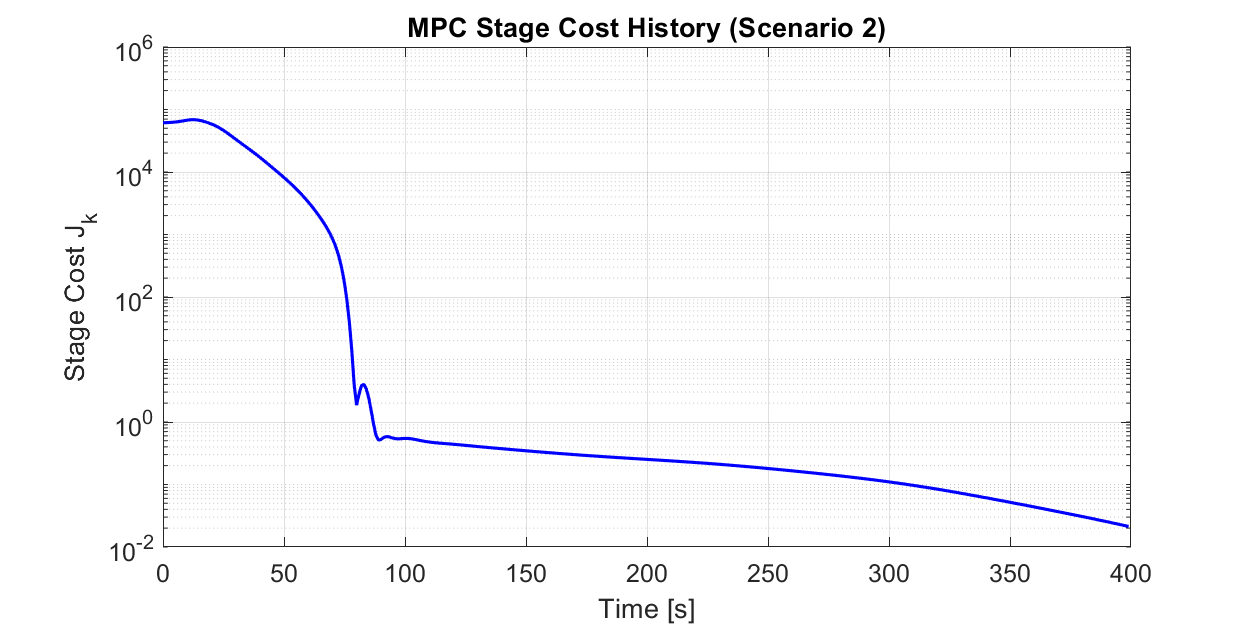
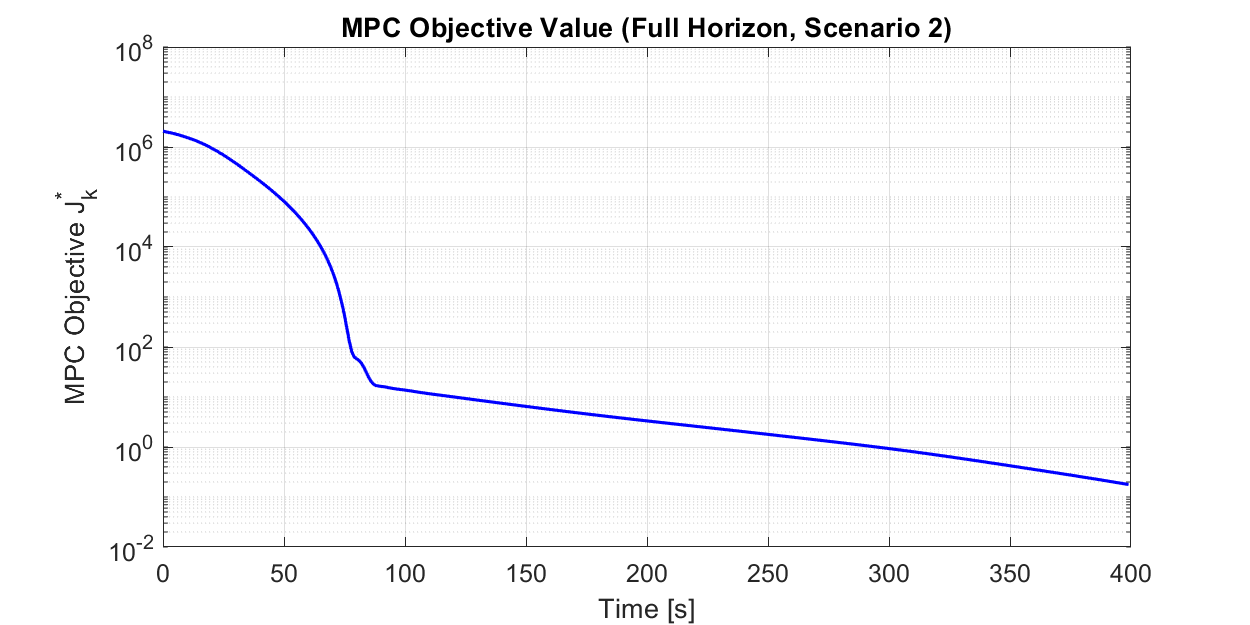
Replace omega plot with true MPC cost history; enforce figure-to-prose coverage
- Cost figure now plots the true QP objective value (full-horizon sum of
  state tracking Q, terminal QN, input Ru, and input-rate Rdu terms)
  computed from the optimal decision vector z*, not the single-step
  stage cost approximation used previously.
- Updated paper text and caption to describe the full-horizon objective.
- Fixed duplicate \label{eq:quat_prop} (Section 3 vs Section 10.8):
  replaced the second instance with a cross-reference to the original.
- Added prose references for 4 unreferenced figures:
  fig:nominal_grid, fig:comparison, fig:faraci_maps, fig:faraci_scaling.
- All 15 figures now have explicit \ref{} calls with explanatory prose.
- Paper compiles cleanly: 31 pages, 0 errors, 0 undefined references.

diff --git a/paper_acta/acta_astronautica.tex b/paper_acta/acta_astronautica.tex
@@ -467,7 +467,7 @@ $\omega_t$ (deg/s) & $a_{\max}\!=\!0.20$ & $0.10$ & $0.05$ & $0.02$ \\
 \end{tabular}
 \end{table}
 
-The safe fraction decreases rapidly with tumble rate due to the $\omega_t^{-2}$ dependence of $r_{\mathrm{sync}}$ and the quadratic growth of the erosion term.  At $\omega_t = 1$~deg/s with $a_{\max} = 0.20$~m/s$^2$, 80.1\% of the cone is certified safe; at $\omega_t = 5$~deg/s with $a_{\max} = 0.02$~m/s$^2$, the safe region shrinks to near zero.
+The safe fraction decreases rapidly with tumble rate due to the $\omega_t^{-2}$ dependence of $r_{\mathrm{sync}}$ and the quadratic growth of the erosion term.  At $\omega_t = 1$~deg/s with $a_{\max} = 0.20$~m/s$^2$, 80.1\% of the cone is certified safe; at $\omega_t = 5$~deg/s with $a_{\max} = 0.02$~m/s$^2$, the safe region shrinks to near zero.  Figure~\ref{fig:nominal_grid} visualises this trend: the green safe region contracts from nearly the full cone (top-left) to a narrow strip near the docking axis (bottom-right) as the governing ratio $a_{\max}/\omega_t^2$ decreases.
 
 \begin{figure}[H]
 \centering
@@ -516,6 +516,8 @@ $\omega_t$ & $a_{\max}$ & Nom & Stoch & Rob & MC \\
 \bottomrule
 \end{tabular}
 \end{table}
+
+Figure~\ref{fig:comparison} shows the spatial distribution of the three nested sets for all 20 parameter combinations.  The progressive constraint tightening from nominal to robust is visible as concentric contraction of the safe region, with the gap between sets widening at higher tumble rates where disturbance-induced erosion is most severe.
 
 \begin{figure}[H]
 \centering
@@ -746,7 +748,7 @@ scenario.  This modest increase reduces the safe fraction from 0.7\% to 0.5\%
 at $a_{\max} = 0.10$~m/s$^2$---a small effect because the erosion is already
 dominated by the base tumble rate.  At larger uncertainties ($\Delta\omega = 3$~deg/s),
 the safe region shrinks to 0.1\%, demonstrating the sensitivity of corridor
-feasibility to tumble-rate knowledge at high $\omega_t$.
+feasibility to tumble-rate knowledge at high $\omega_t$.  Figure~\ref{fig:faraci_maps} shows the spatial safe-start maps at $\omega_t = 4$~deg/s for all four thrust levels, illustrating how the feasible region collapses toward the docking axis as $a_{\max}$ decreases.  Figure~\ref{fig:faraci_scaling} confirms the universal scaling collapse: safe-start coverage versus $a_{\max}/\omega_t^2$ for tumble rates 1--6~deg/s falls on a single curve, extending the result of Section~\ref{sec:discussion} to higher tumble rates.
 
 \begin{figure}[H]
 \centering
@@ -828,12 +830,8 @@ precess through large angles, producing visually dramatic tumbling even
 at moderate angular rates.
 
 The target's attitude quaternion $\mathbf{q}_{B/I}$ (scalar-first convention)
-is propagated via:
-\begin{equation}
-  \dot{\mathbf{q}}_{B/I}
-  = \tfrac{1}{2}\,\mathbf{q}_{B/I} \otimes [0;\;\boldsymbol{\omega}_B],
-\label{eq:quat_prop}
-\end{equation}
+is propagated via~\eqref{eq:quat_prop}, now with the time-varying
+$\boldsymbol{\omega}_B(t)$ from~\eqref{eq:euler_torquefree},
 using a fourth-order Runge--Kutta integrator with unit-norm
 renormalisation at each step.  The rotation matrix
 $\mat{R}_{I \leftarrow B}(\mathbf{q})$ maps body-frame vectors to the ECI
@@ -945,26 +943,16 @@ is along the $y_B$ docking axis to within 10~m.
 \label{fig:3d_trajectory}
 \end{figure}
 
-Figure~\ref{fig:3d_cost} shows the MPC stage cost
-$J_k = (\mathbf{x}_k - \mathbf{x}_{\mathrm{ref}})^\top \mat{Q}\,
-(\mathbf{x}_k - \mathbf{x}_{\mathrm{ref}}) +
-\mathbf{u}_k^\top \mat{R}_u\,\mathbf{u}_k$ over the 400-step approach.
-The cost peaks during the initial transient when the chaser is far from
-the docking axis, then decays over three orders of magnitude as the
-trajectory converges.  The oscillatory structure reflects the polhode
-period of the tumbling body frame: each time the body frame rotates
-through a large-precession phase ($\sim$120~s period), the MPC must
-expend additional effort to track the moving docking axis, producing
-local cost peaks that are absent in the planar (single-axis) case.
+Figure~\ref{fig:3d_cost} shows the optimal MPC objective value
+$J_k^* = \sum_{j=0}^{N_p-1}\bigl[\|\hat{\mathbf{x}}_j - \mathbf{x}^{\mathrm{ref}}_j\|_Q^2 + \|\mathbf{u}_j\|_{R_u}^2 + \|\Delta\mathbf{u}_j\|_{R_{\Delta u}}^2\bigr] + \|\hat{\mathbf{x}}_{N_p} - \mathbf{x}^{\mathrm{ref}}_{N_p}\|_{Q_N}^2$,
+evaluated from the QP decision vector $\mathbf{z}^*$ returned by the solver at each control step.
+The objective decays over eight orders of magnitude (${\sim}10^6$ to ${\sim}10^{-2}$) as the chaser converges.
+The steep initial drop ($t < 80$~s) corresponds to the alignment and corridor-entry phase, after which the trajectory is well within the LOS cone and the objective decreases gradually during the station-keeping phase.
 
 \begin{figure}[H]
 \centering
 \includegraphics[width=0.95\columnwidth]{fig_cost_history.png}
-\caption{MPC stage cost history for the 3D tumbling approach.
-  The cost decays from $\sim$10$^4$ to $\sim$10$^1$ as the chaser converges.
-  Oscillatory modulation corresponds to the polhode period of the
-  intermediate-axis instability; each precession cycle requires
-  increased control effort to maintain LOS cone compliance.}
+\caption{Full-horizon MPC objective value $J_k^*$ (log scale) for the 3D tumbling approach, computed from the QP solution at each control step.  The objective includes state-tracking~($Q$), terminal~($Q_N = 30Q$), input~($R_u$), and input-rate~($R_{\Delta u}$) penalties summed over the $N_p = 40$-step prediction horizon.  The cost decays from $\sim\!10^6$ to $\sim\!10^{-2}$ as the chaser converges onto the docking axis.}
 \label{fig:3d_cost}
 \end{figure}
 

diff --git a/scripts/sim_3d_tumble_scenario2.m b/scripts/sim_3d_tumble_scenario2.m
@@ -172,13 +172,14 @@ for k = 1:N_steps
     [Ad, Bd] = linearise_3d_body(x_tb, omega_body, n_orb, dt);
 
     % Solve MPC
-    [u_opt, qp_status] = solve_mpc_qp(Ad, Bd, x_tb, x_ref, u_prev, ...
+    [u_opt, qp_status, qp_Jopt] = solve_mpc_qp(Ad, Bd, x_tb, x_ref, u_prev, ...
         Q, QN, Ru, Rdu, a_max, cone_k, y_min, n_faces, Np, nx, nu);
     log_status{k} = qp_status;
 
-    % Cost
-    x_err = x_tb - x_ref(:,1);
-    log_cost(k) = x_err' * Q * x_err + u_opt' * Ru * u_opt;
+    % Cost — true MPC objective value computed from z*:
+    %   J = sum_{j=0}^{Np-1} [(x_j-xr_j)'Q(x_j-xr_j) + u_j'Ru u_j
+    %       + du_j'Rdu du_j] + (x_Np-xr_Np)'QN(x_Np-xr_Np)
+    log_cost(k) = qp_Jopt;
 
     % Clamp
     u_tb_k = max(-a_max, min(a_max, u_opt));
@@ -497,11 +498,11 @@ fprintf('  fig_summary\n');
 %  SECTION 8 — INDIVIDUAL JOURNAL-QUALITY PLOTS (PNG + PDF)
 %  ====================================================================
 
-% --- 8a. MPC Cost History ---
+% --- 8a. MPC Cost History (true QP objective) ---
 fig5 = figure('Position',[100 100 800 400],'Color','w');
 semilogy(t_u, log_cost, 'b-','LineWidth',1.5);
-xlabel('Time [s]'); ylabel('Stage Cost J_k');
-title('MPC Stage Cost History (Scenario 2)');
+xlabel('Time [s]'); ylabel('MPC Objective J_k^*');
+title('MPC Objective Value (Full Horizon, Scenario 2)');
 grid on; set(gca,'FontSize',12);
 saveas(fig5, fullfile(out_dir,'fig_cost_history.png'));
 exportgraphics(fig5, fullfile(out_dir,'fig_cost_history.pdf'),'ContentType','vector');
@@ -776,7 +777,7 @@ function [ok, mrg] = check_los_fn(r, ck, ym, nf)
 end
 
 % ---- MPC QP (quadprog) ----
-function [u, st] = solve_mpc_qp(Ad,Bd,x0,xr,up,Q,QN,Ru,Rdu,am,ck,ym,nf,Np,nx,nu)
+function [u, st, Jopt] = solve_mpc_qp(Ad,Bd,x0,xr,up,Q,QN,Ru,Rdu,am,ck,ym,nf,Np,nx,nu)
     nxt=(Np+1)*nx; nut=Np*nu; nv=nxt+nut;
     H=sparse(nv,nv); f=zeros(nv,1);
     for j=0:Np
@@ -825,8 +826,29 @@ function [u, st] = solve_mpc_qp(Ad,Bd,x0,xr,up,Q,QN,Ru,Rdu,am,ck,ym,nf,Np,nx,nu)
     opts=optimoptions('quadprog','Display','off','MaxIter',2000,...
         'OptimalityTolerance',1e-6,'ConstraintTolerance',1e-6);
     [z,~,ef]=quadprog(H,f,[Ai;Al],[bi;bl],Ae,be,[],[],[],opts);
-    if ef>0, st='solved'; u=z(nxt+(1:nu));
-    else,    st=sprintf('fail(%d)',ef); u=zeros(nu,1); end
+    if ef>0
+        st='solved'; u=z(nxt+(1:nu));
+        % Compute true MPC objective from the optimal decision vector z*:
+        %   J = sum_{j=0}^{Np-1} [ (x_j-xr_j)'Q(x_j-xr_j) + u_j'Ru*u_j
+        %        + du_j'Rdu*du_j ] + (x_Np-xr_Np)'QN(x_Np-xr_Np)
+        Jopt = 0;
+        for jj = 0:Np
+            xj = z(jj*nx+(1:nx));
+            ej = xj - xr(:,jj+1);
+            if jj < Np
+                Jopt = Jopt + ej'*Q*ej;
+                uj = z(nxt+jj*nu+(1:nu));
+                Jopt = Jopt + uj'*Ru*uj;
+                if jj == 0, duj = uj - up;
+                else,       duj = uj - z(nxt+(jj-1)*nu+(1:nu)); end
+                Jopt = Jopt + duj'*Rdu*duj;
+            else
+                Jopt = Jopt + ej'*QN*ej;
+            end
+        end
+    else
+        st=sprintf('fail(%d)',ef); u=zeros(nu,1); Jopt=NaN;
+    end
 end
 
 % ---- Chaser attitude: +y toward target (origin) ----
